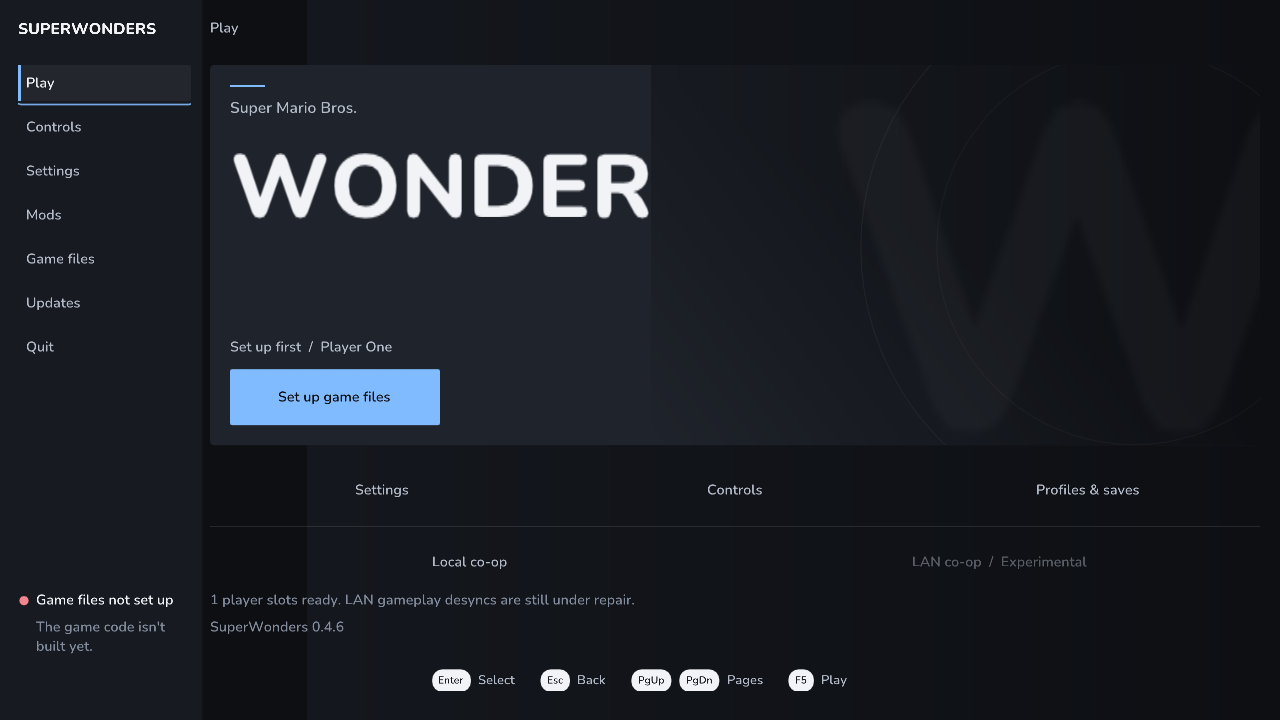
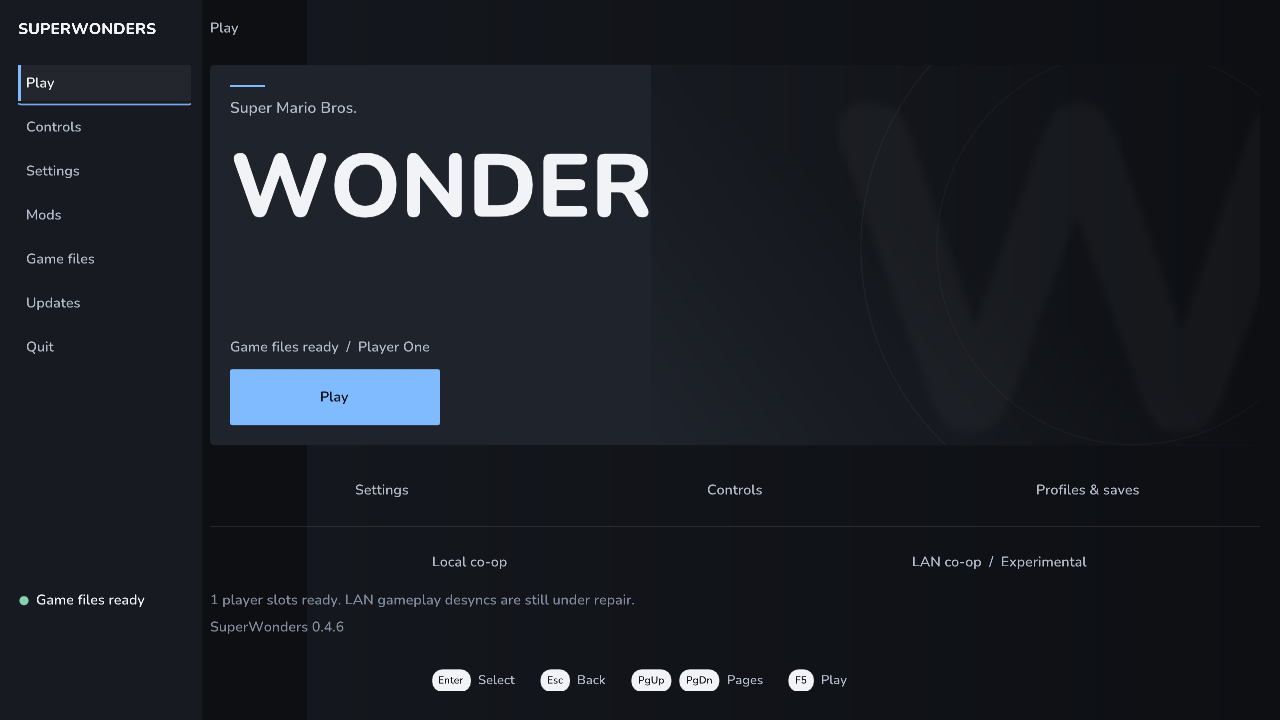
Keep the Wonder cover wordmark crisp at larger window sizes

diff --git a/runtime/src/overlay/overlay_ui.cpp b/runtime/src/overlay/overlay_ui.cpp
@@ -96,6 +96,11 @@ constexpr float kBody1080 = 29.0f;  // the menu rows at 1080 p (Savage Wind's si
 
 ImFont* g_body = nullptr;
 ImFont* g_title = nullptr;
+ImFont* g_wordmark = nullptr;
+// The cover is much larger than menu headings. Bake only its six letters at
+// display size, avoiding a large duplicate atlas of all localized menu glyphs.
+constexpr float kWordmarkBake = 192.f;
+const ImWchar kWordmarkRanges[] = {0x44,0x45,0x4e,0x4f,0x52,0x52,0x57,0x57,0};
 
 // Latin-1 plus menu punctuation. Script glyphs used by the in-game menu and launcher are merged below.
 const ImWchar kRanges[] = {0x0020, 0x00FF, 0x2013, 0x2014, 0x2018, 0x201E, 0x2022, 0x2026, 0x2190, 0x2193, 0};
@@ -214,13 +219,14 @@ void apply_style(float height) {
 void load_fonts() {
     ImGuiIO& io = ImGui::GetIO();
     io.Fonts->Clear();
-    g_body = g_title = nullptr;
+    g_body = g_title = g_wordmark = nullptr;
     ImFontConfig cfg;
     cfg.OversampleH = 2;
 #ifdef NX_NUNITO
     cfg.FontDataOwnedByAtlas = false;  // (static data)
     g_body = io.Fonts->AddFontFromMemoryTTF((void*)kBodyFont, int(sizeof kBodyFont), kBodyBake, &cfg, kRanges);
     g_title = io.Fonts->AddFontFromMemoryTTF((void*)kTitleFont, int(sizeof kTitleFont), kTitleBake, &cfg, kRanges);
+    g_wordmark = io.Fonts->AddFontFromMemoryTTF((void*)kTitleFont, int(sizeof kTitleFont), kWordmarkBake, &cfg, kWordmarkRanges);
     if (g_body) nx::log("overlay: font Nunito (embedded)");
 #endif
     cfg.FontDataOwnedByAtlas = true;
@@ -229,7 +235,11 @@ void load_fonts() {
         if (FILE* f = std::fopen(path, "rb")) {
             std::fclose(f);
             g_body = io.Fonts->AddFontFromFileTTF(path, kBodyBake, &cfg, kRanges);
-            if (g_body) g_title = io.Fonts->AddFontFromFileTTF(path, kTitleBake, &cfg, kRanges), nx::log("overlay: font %s", path);
+            if (g_body) {
+                g_title = io.Fonts->AddFontFromFileTTF(path, kTitleBake, &cfg, kRanges);
+                g_wordmark = io.Fonts->AddFontFromFileTTF(path, kWordmarkBake, &cfg, kWordmarkRanges);
+                nx::log("overlay: font %s", path);
+            }
         }
     }
     if (!g_body) {
@@ -238,6 +248,7 @@ void load_fonts() {
         g_body = io.Fonts->AddFontDefault(&c);
     }
     if (!g_title) g_title = g_body;
+    if (!g_wordmark) g_wordmark = g_title;
     ImFontGlyphRangesBuilder glyph_builder;
     glyph_builder.AddText(kLocalizedGlyphs);
     glyph_builder.AddText(kAdditionalLocalizedGlyphs);
@@ -322,6 +333,7 @@ void load_fonts() {
 
 ImFont* body() { return g_body; }
 ImFont* title() { return g_title; }
+ImFont* wonder_wordmark() { return g_wordmark; }
 
 float font_scale(float height) { return kBody1080 * std::clamp(height / 1080.0f, 0.5f, 3.0f) / kBodyBake; }
 

diff --git a/runtime/src/launcher/launcher.cpp b/runtime/src/launcher/launcher.cpp
@@ -748,9 +748,9 @@ void page_play() {
     const float brand_y=origin.y+pad+18*k;
     dl->AddText(ui::body(),font*1.10f,{origin.x+pad,brand_y},th.text_dim,"Super Mario Bros.");
     float title_size=std::min(hero_height*.32f,inner*.25f);
-    const float natural=ui::title()->CalcTextSizeA(title_size,FLT_MAX,0,"WONDER").x;
+    const float natural=ui::wonder_wordmark()->CalcTextSizeA(title_size,FLT_MAX,0,"WONDER").x;
     if(natural>inner)title_size*=inner/natural;
-    dl->AddText(ui::title(),title_size,{origin.x+pad,brand_y+font*1.5f},th.text,"WONDER");
+    dl->AddText(ui::wonder_wordmark(),title_size,{origin.x+pad,brand_y+font*1.5f},th.text,"WONDER");
     dl->PopClipRect();
 
     const float button_y=corner.y-pad-button_size.y;

diff --git a/runtime/src/overlay/overlay_ui.h b/runtime/src/overlay/overlay_ui.h
@@ -34,6 +34,7 @@ void apply_style(float height);
 void load_fonts();
 ImFont* body();   // rows, text
 ImFont* title();  // headings
+ImFont* wonder_wordmark(); // Large Latin WONDER cover only; localized headings use title().
 // FontGlobalScale for an image `height` pixels tall: the body font at about 29 px at 1080 p.
 float font_scale(float height);
 

diff --git a/docs/UI-REFRESH-2026-11-20.md b/docs/UI-REFRESH-2026-11-20.md
@@ -30,9 +30,11 @@ not bundled game artwork or a gameplay screenshot.
 
 The [launcher hero](images/ui-launcher-2026-11-20.png) and
 [controller page](images/ui-controls-2026-11-20.png) are native Vulkan captures of
-the current layout, using intentionally empty, isolated test data. They contain
-no game assets or personal connection details. The unprepared hero is verified;
-a prepared-installation hero capture remains pending.
+the current layout using isolated test data. The hero shows a prepared
+installation and its Play action; the controller page uses empty test data.
+Neither image contains game assets or personal connection details. The large
+WONDER wordmark has its own six-letter font bake so the cover stays crisp
+without duplicating all localized menu glyphs at cover size.
 
 The five bundled Noto fallback subsets now include the localized Controls
 captions. Their sources are pinned to the authoritative Google Fonts repository,
@@ -44,7 +46,7 @@ bundled font cmaps. Character availability does not certify shaping or layout.
 
 ## Validation and limits
 
-The current Windows runtime passes all 112 CPU regressions and six native
+The earlier input-navigation build passed all 112 CPU regressions and six native
 overlay input cases, including stale polls/events, remapping capture, held
 preset changes and rapid close/reopen. Six isolated native UI tours completed
 cleanly: launcher and controller pages at 1280 x 720 and 640 x 360, German
@@ -55,6 +57,13 @@ Current source checks pass: font coverage, all 21 library tests and all three
 pure library geometry tests. The hidden Tk construction/resize smoke passed at
 960 x 740, 640 x 440 and 520 x 420 while the window remained withdrawn; it is not
 a screenshot or visual approval.
+
+The cover-font follow-up passed nine focused CPU checks, six native overlay
+input cases and seven native UI tours, including a 1920 x 1080 launcher.
+Prepared-installation Play captures were also visually inspected. That private
+capture helper encountered a post-exit log-sharing error; a separate postflight
+verified all 18 complete images, ready status, no loaded game library and the
+64 MiB final capture limit. This is not an uninterrupted helper-script pass.
 
 These checks do not establish every language/device combination, accessibility,
 correct gameplay graphics, multiplayer synchronization or an FPS improvement.

diff --git a/README.md b/README.md
@@ -30,7 +30,7 @@ See [preparing and selecting editions](docs/PLAYING-WONDER.md#choose-an-edition)
 
 ![SuperWonders PC launcher](docs/images/ui-launcher-2026-11-20.png)
 
-*The PC launcher in an isolated test installation, with no game data configured. The LAN entry is experimental; this screenshot does not demonstrate working multiplayer.*
+*The PC launcher in an isolated prepared installation. The cover uses runtime-owned typography and shapes. The LAN entry is experimental; this screenshot does not demonstrate working multiplayer.*
 
 ## Play on PC
 
